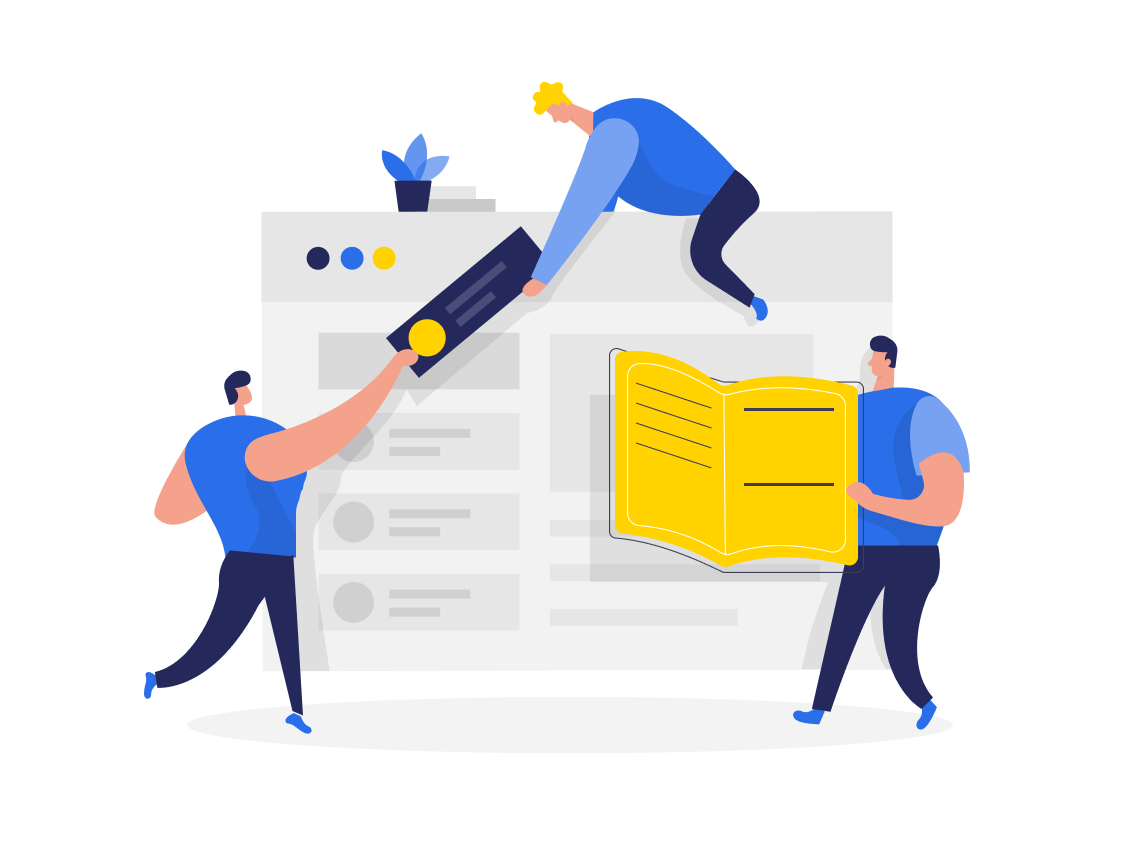
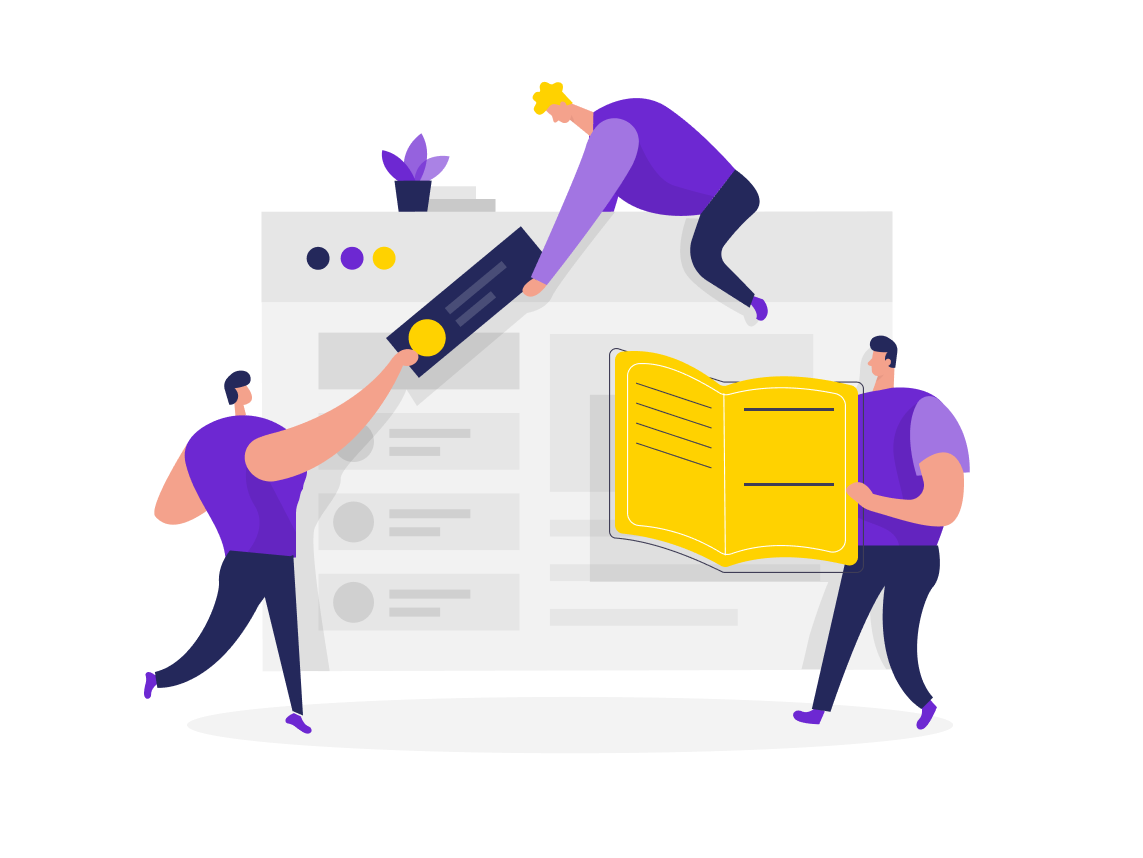
style: changed the color palette.

diff --git a/app/screens/Favorite.tsx b/app/screens/Favorite.tsx
@@ -1,9 +1,7 @@
 import React, {useMemo} from 'react';
 import {
-  Image,
   SafeAreaView,
   ScrollView,
-  TouchableOpacity,
   StyleSheet,
 } from 'react-native';
 import {MainHeader} from '../components/Headers/MainHeader';
@@ -23,13 +21,6 @@ export const FavoriteScreen = () => {
           subText="يمكنك إضافة فائدة مُفضلة الآن! اذهب إلى الفوائد وأضف ما تُحب إلى هنا"
         />
       </ScrollView>
-      <TouchableOpacity style={styles.addButton}>
-        <Image
-          source={require('../assets/icons/plusIcon.png')}
-          resizeMode="contain"
-          style={styles.addIcon}
-        />
-      </TouchableOpacity>
     </SafeAreaView>
   );
 };
@@ -42,21 +33,6 @@ const getStyles = () => {
     },
     scrollView: {
       flex: 1,
-    },
-    addButton: {
-      width: 53,
-      height: 53,
-      borderRadius: 50,
-      position: 'absolute',
-      right: 15,
-      bottom: 40,
-      backgroundColor: colors.primaryBlue,
-      justifyContent: 'center',
-      alignItems: 'center',
-    },
-    addIcon: {
-      width: 18,
-      height: 18,
-    },
+    }
   });
 };

diff --git a/app/screens/Main.tsx b/app/screens/Main.tsx
@@ -112,7 +112,7 @@ const getStyles = () => {
       borderRadius: 18,
     },
     tabButtonFocused: {
-      backgroundColor: colors.primaryBlack,
+      backgroundColor: colors.primaryMove,
     },
     tabButtonText: {
       color: colors.lightBlackText,
@@ -130,7 +130,7 @@ const getStyles = () => {
       position: 'absolute',
       right: 15,
       bottom: 40,
-      backgroundColor: colors.primaryBlue,
+      backgroundColor: colors.primaryMove,
       justifyContent: 'center',
       alignItems: 'center',
     },

diff --git a/app/navigation/NavigationHome.tsx b/app/navigation/NavigationHome.tsx
@@ -31,7 +31,7 @@ export const NavigationHome = () => {
           return <Ionicons name={iconName} size={25} color={color} />;
         },
         headerShown: false,
-        tabBarActiveTintColor: colors.primaryBlack,
+        tabBarActiveTintColor: colors.primaryMove,
         tabBarInactiveTintColor: colors.lightGrey,
         tabBarStyle: styles.tabBar,
         tabBarLabelStyle: styles.tabBarLabel,

diff --git a/app/components/Modals/Confirmation.tsx b/app/components/Modals/Confirmation.tsx
@@ -100,7 +100,7 @@ const styles = StyleSheet.create({
     justifyContent: 'center',
   },
   cancelButton: {
-    backgroundColor: colors.primaryBlue,
+    backgroundColor: colors.primaryMove,
   },
   confirmButton: {
     backgroundColor: colors.lightRed,

diff --git a/app/config.js b/app/config.js
@@ -1,5 +1,5 @@
 const colors = {
-  primaryBlue: '#2B6EE9',
+  primaryMove: '#6D28D2',
   primaryBlack: '#333333',
   mainScreen: '#F5F5F5',
   white: '#FFFFFF',
